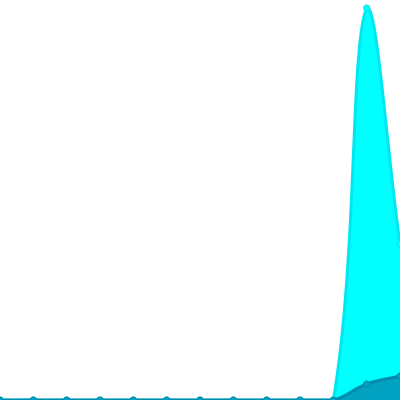
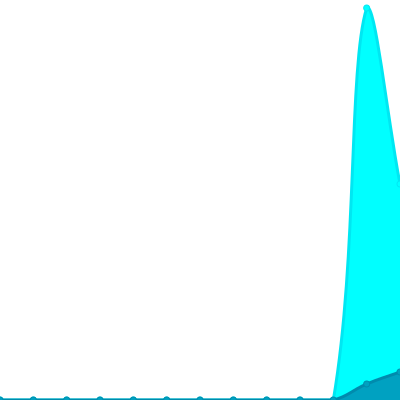
Update views

diff --git a/readme/495925535/year.md b/readme/495925535/year.md
@@ -23,10 +23,10 @@
 			<code>2022/6/1</code>
 		</td>
 		<td>
-			<code>6</code>
+			<code>7</code>
 		</td>
 		<td>
-			<code>39</code>
+			<code>54</code>
 		</td>
 	</tr>
 	<tr>
@@ -164,7 +164,7 @@
 </table>
 
 </details>
-<small><i>Last updated on 2022/6/19 12:35 AM UTC</i></small>
+<small><i>Last updated on 2022/6/19 6:09 AM UTC</i></small>
 
 ## ✂Copy and 📋 Paste
 ### SVG Badge

diff --git a/README.md b/README.md
@@ -213,7 +213,7 @@ The project created and maintained by [gayanvoice](https://github.com/gayanvoice
 	</tr>
 </table>
 
-<small><i>Last updated on 2022/6/19 12:35 AM UTC</i></small>
+<small><i>Last updated on 2022/6/19 6:09 AM UTC</i></small>
 
 ## ✂Copy and 📋 Paste
 ### Total Views Badge

diff --git a/readme/189526881/year.md b/readme/189526881/year.md
@@ -164,7 +164,7 @@
 </table>
 
 </details>
-<small><i>Last updated on 2022/6/19 12:33 AM UTC</i></small>
+<small><i>Last updated on 2022/6/19 6:08 AM UTC</i></small>
 
 ## ✂Copy and 📋 Paste
 ### SVG Badge

diff --git a/readme/194013724/year.md b/readme/194013724/year.md
@@ -164,7 +164,7 @@
 </table>
 
 </details>
-<small><i>Last updated on 2022/6/19 12:33 AM UTC</i></small>
+<small><i>Last updated on 2022/6/19 6:08 AM UTC</i></small>
 
 ## ✂Copy and 📋 Paste
 ### SVG Badge

diff --git a/readme/198723757/year.md b/readme/198723757/year.md
@@ -164,7 +164,7 @@
 </table>
 
 </details>
-<small><i>Last updated on 2022/6/19 12:33 AM UTC</i></small>
+<small><i>Last updated on 2022/6/19 6:08 AM UTC</i></small>
 
 ## ✂Copy and 📋 Paste
 ### SVG Badge

diff --git a/readme/219424969/year.md b/readme/219424969/year.md
@@ -164,7 +164,7 @@
 </table>
 
 </details>
-<small><i>Last updated on 2022/6/19 12:33 AM UTC</i></small>
+<small><i>Last updated on 2022/6/19 6:07 AM UTC</i></small>
 
 ## ✂Copy and 📋 Paste
 ### SVG Badge

diff --git a/readme/436220390/year.md b/readme/436220390/year.md
@@ -164,7 +164,7 @@
 </table>
 
 </details>
-<small><i>Last updated on 2022/6/19 12:33 AM UTC</i></small>
+<small><i>Last updated on 2022/6/19 6:07 AM UTC</i></small>
 
 ## ✂Copy and 📋 Paste
 ### SVG Badge

diff --git a/readme/440320865/year.md b/readme/440320865/year.md
@@ -164,7 +164,7 @@
 </table>
 
 </details>
-<small><i>Last updated on 2022/6/19 12:34 AM UTC</i></small>
+<small><i>Last updated on 2022/6/19 6:08 AM UTC</i></small>
 
 ## ✂Copy and 📋 Paste
 ### SVG Badge

diff --git a/readme/464302186/year.md b/readme/464302186/year.md
@@ -164,7 +164,7 @@
 </table>
 
 </details>
-<small><i>Last updated on 2022/6/19 12:34 AM UTC</i></small>
+<small><i>Last updated on 2022/6/19 6:08 AM UTC</i></small>
 
 ## ✂Copy and 📋 Paste
 ### SVG Badge

diff --git a/readme/466861601/year.md b/readme/466861601/year.md
@@ -164,7 +164,7 @@
 </table>
 
 </details>
-<small><i>Last updated on 2022/6/19 12:34 AM UTC</i></small>
+<small><i>Last updated on 2022/6/19 6:08 AM UTC</i></small>
 
 ## ✂Copy and 📋 Paste
 ### SVG Badge

diff --git a/readme/471124606/year.md b/readme/471124606/year.md
@@ -164,7 +164,7 @@
 </table>
 
 </details>
-<small><i>Last updated on 2022/6/19 12:34 AM UTC</i></small>
+<small><i>Last updated on 2022/6/19 6:08 AM UTC</i></small>
 
 ## ✂Copy and 📋 Paste
 ### SVG Badge

diff --git a/readme/490430903/year.md b/readme/490430903/year.md
@@ -164,7 +164,7 @@
 </table>
 
 </details>
-<small><i>Last updated on 2022/6/19 12:34 AM UTC</i></small>
+<small><i>Last updated on 2022/6/19 6:09 AM UTC</i></small>
 
 ## ✂Copy and 📋 Paste
 ### SVG Badge
